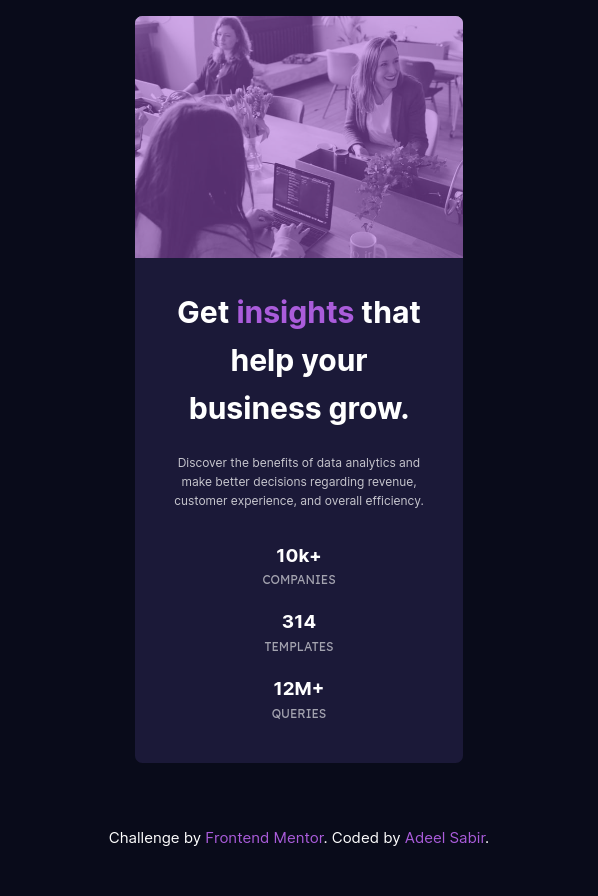
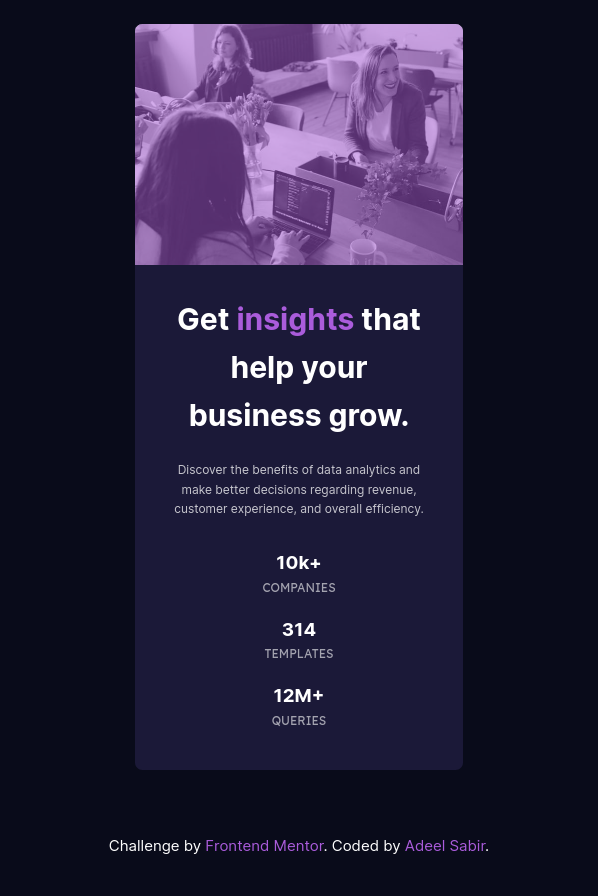
added margins to mobile version, updated screenshots

diff --git a/css/style.scss b/css/style.scss
@@ -46,6 +46,7 @@ body {
   border-radius: 0.5em;
   overflow: hidden;
   text-align: center;
+  margin: 1em auto;
 
   &__image {
     position: relative !important;

diff --git a/css/style.css b/css/style.css
@@ -37,6 +37,7 @@ body {
   border-radius: 0.5em;
   overflow: hidden;
   text-align: center;
+  margin: 1em auto;
 }
 
 .card__image {
